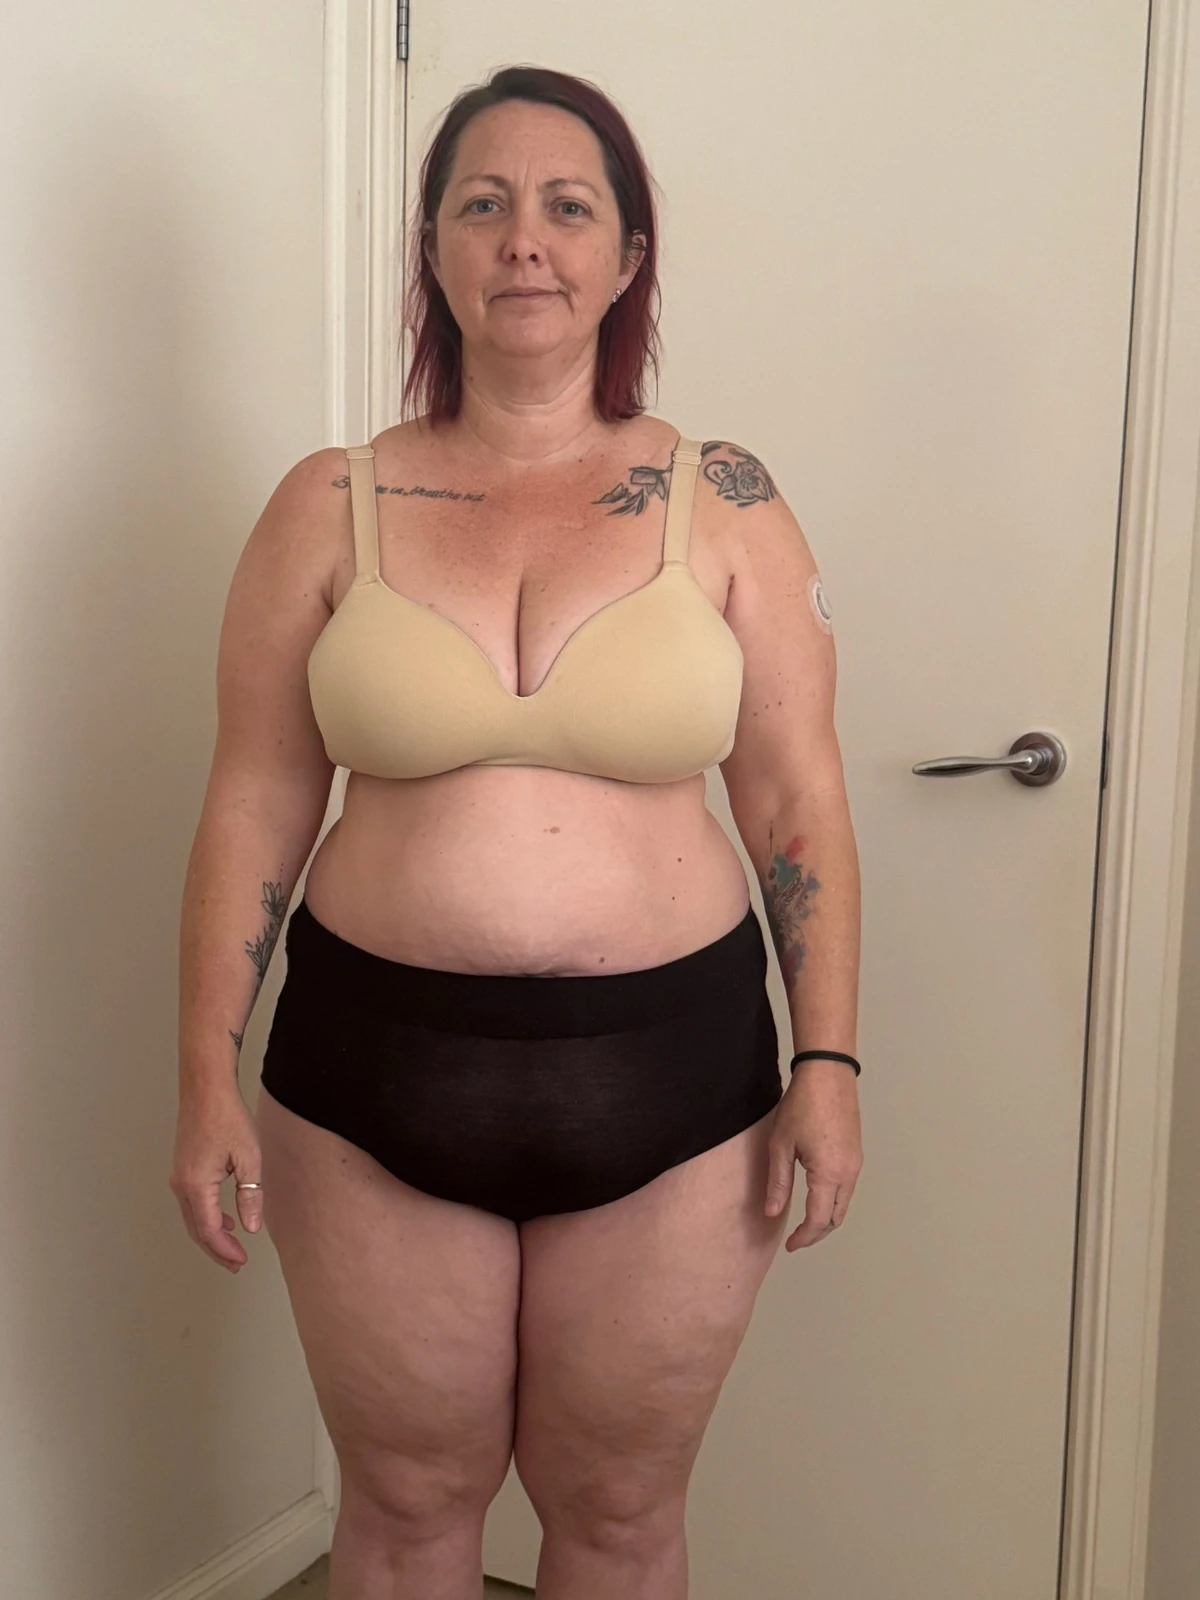
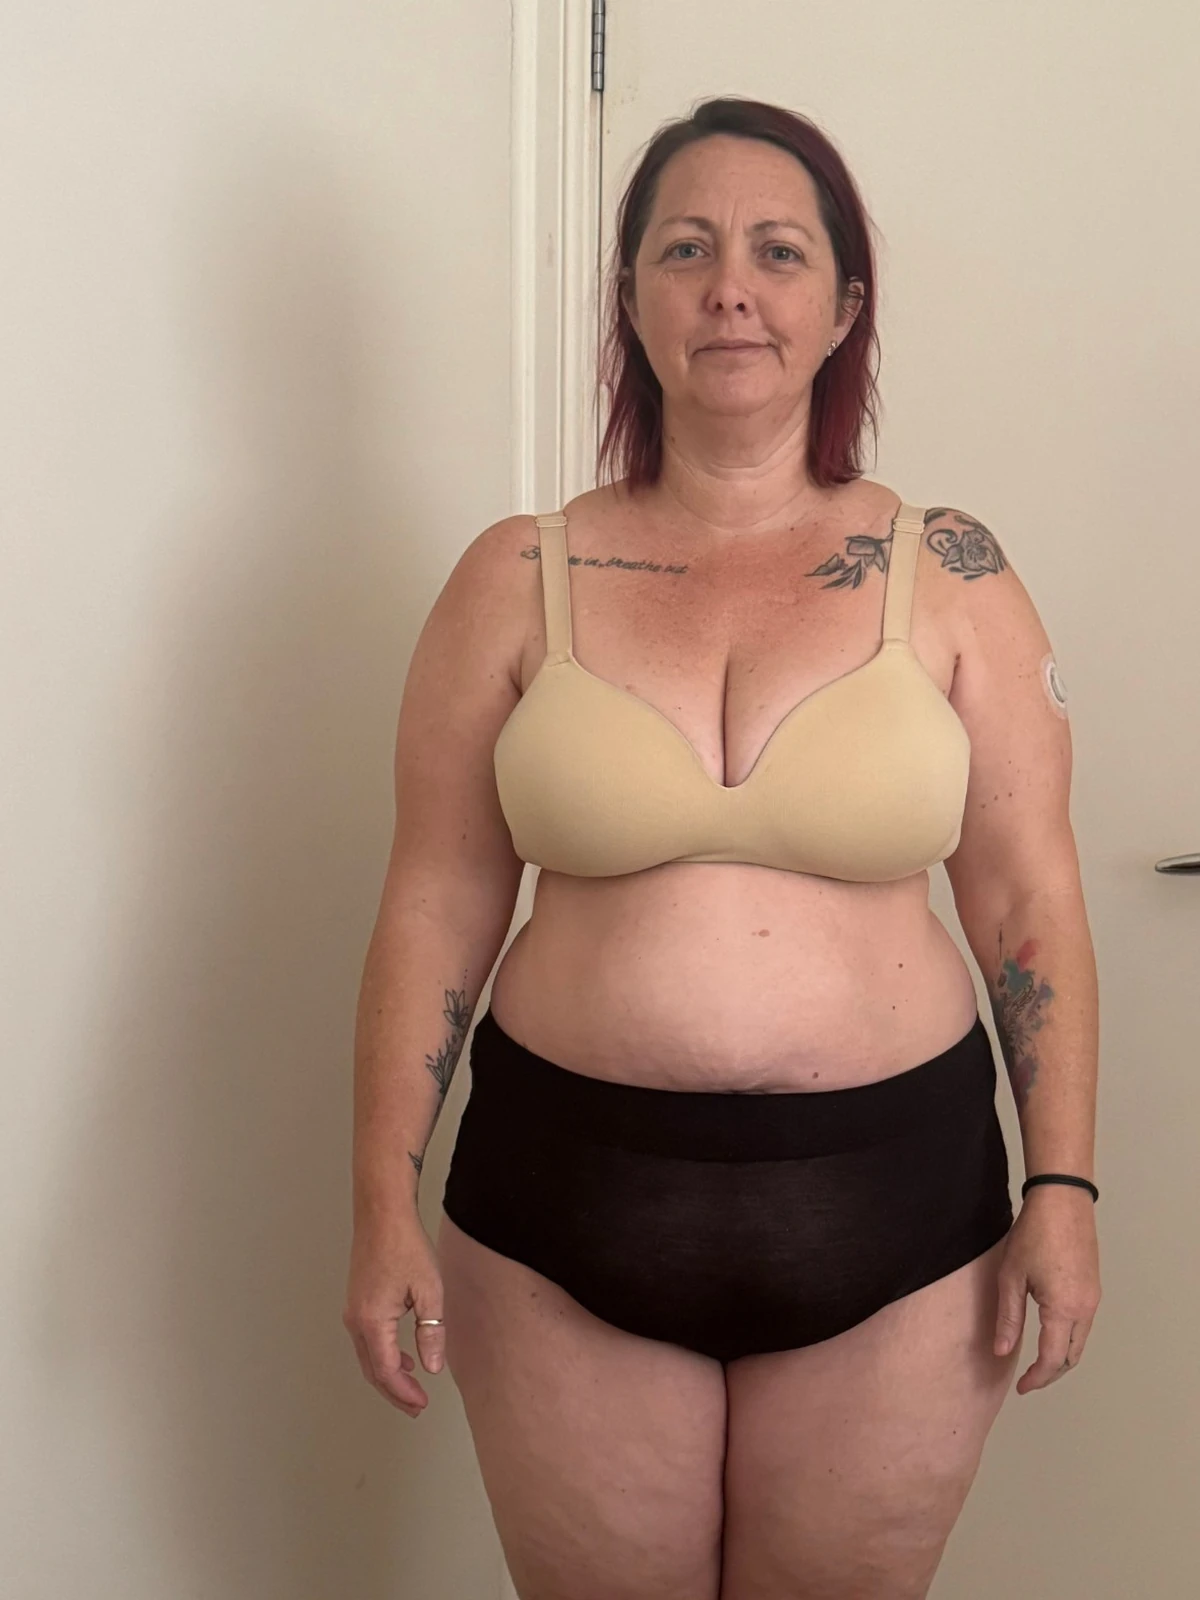
Center after photo in before/after slider and re-match before scale
Re-crop the AFTER image centered on the subject (was right-biased) and
re-crop the BEFORE to match its scale and head position for an aligned
wipe. Bump cache version to v9.

Claude-Session: https://claude.ai/code/session_011m1xHkumRNsKTuSQjTYGxR

diff --git a/men.html b/men.html
@@ -299,11 +299,11 @@
     <div id="ba-slider" style="position:relative;width:100%;max-width:480px;margin:0 auto 28px;border-radius:12px;overflow:hidden;cursor:ew-resize;user-select:none;aspect-ratio:3 / 4;background:#111;border:1px solid rgba(255,255,255,0.08);">
 
       <div style="position:absolute;top:0;left:0;width:100%;height:100%;overflow:hidden;">
-        <img src="reviews/ba-after2.webp?v=8" alt="Michelle Corliss after" style="width:100%;height:100%;object-fit:cover;object-position:center;" />
+        <img src="reviews/ba-after2.webp?v=9" alt="Michelle Corliss after" style="width:100%;height:100%;object-fit:cover;object-position:center;" />
       </div>
 
       <div id="ba-before" style="position:absolute;top:0;left:0;width:100%;height:100%;overflow:hidden;clip-path:inset(0 50% 0 0);">
-        <img src="reviews/ba-before2.webp?v=8" alt="Michelle Corliss before" style="width:100%;height:100%;object-fit:cover;object-position:center;" />
+        <img src="reviews/ba-before2.webp?v=9" alt="Michelle Corliss before" style="width:100%;height:100%;object-fit:cover;object-position:center;" />
       </div>
 
       <div id="ba-line" style="position:absolute;top:0;bottom:0;left:50%;width:2px;background:#ffffff;transform:translateX(-50%);z-index:10;pointer-events:none;"></div>
